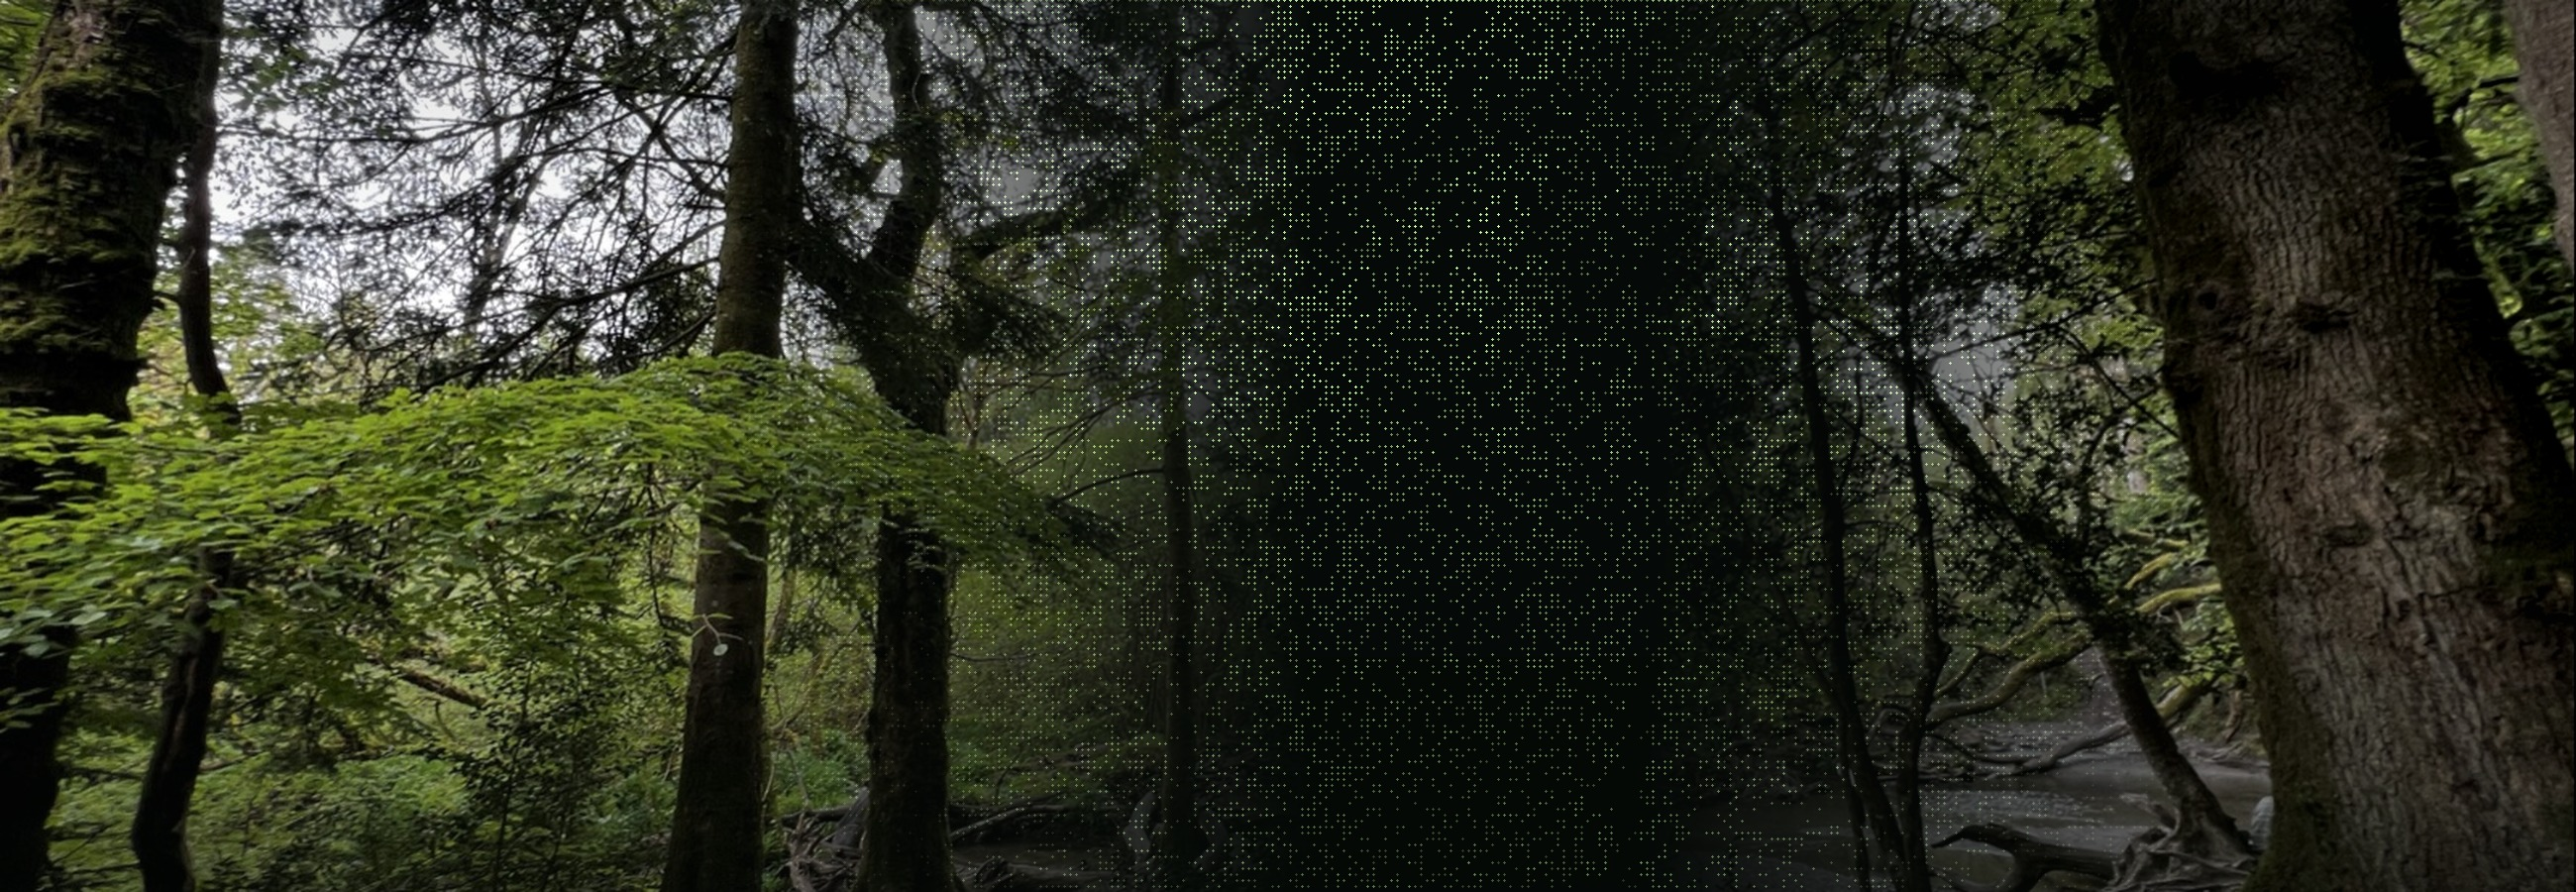
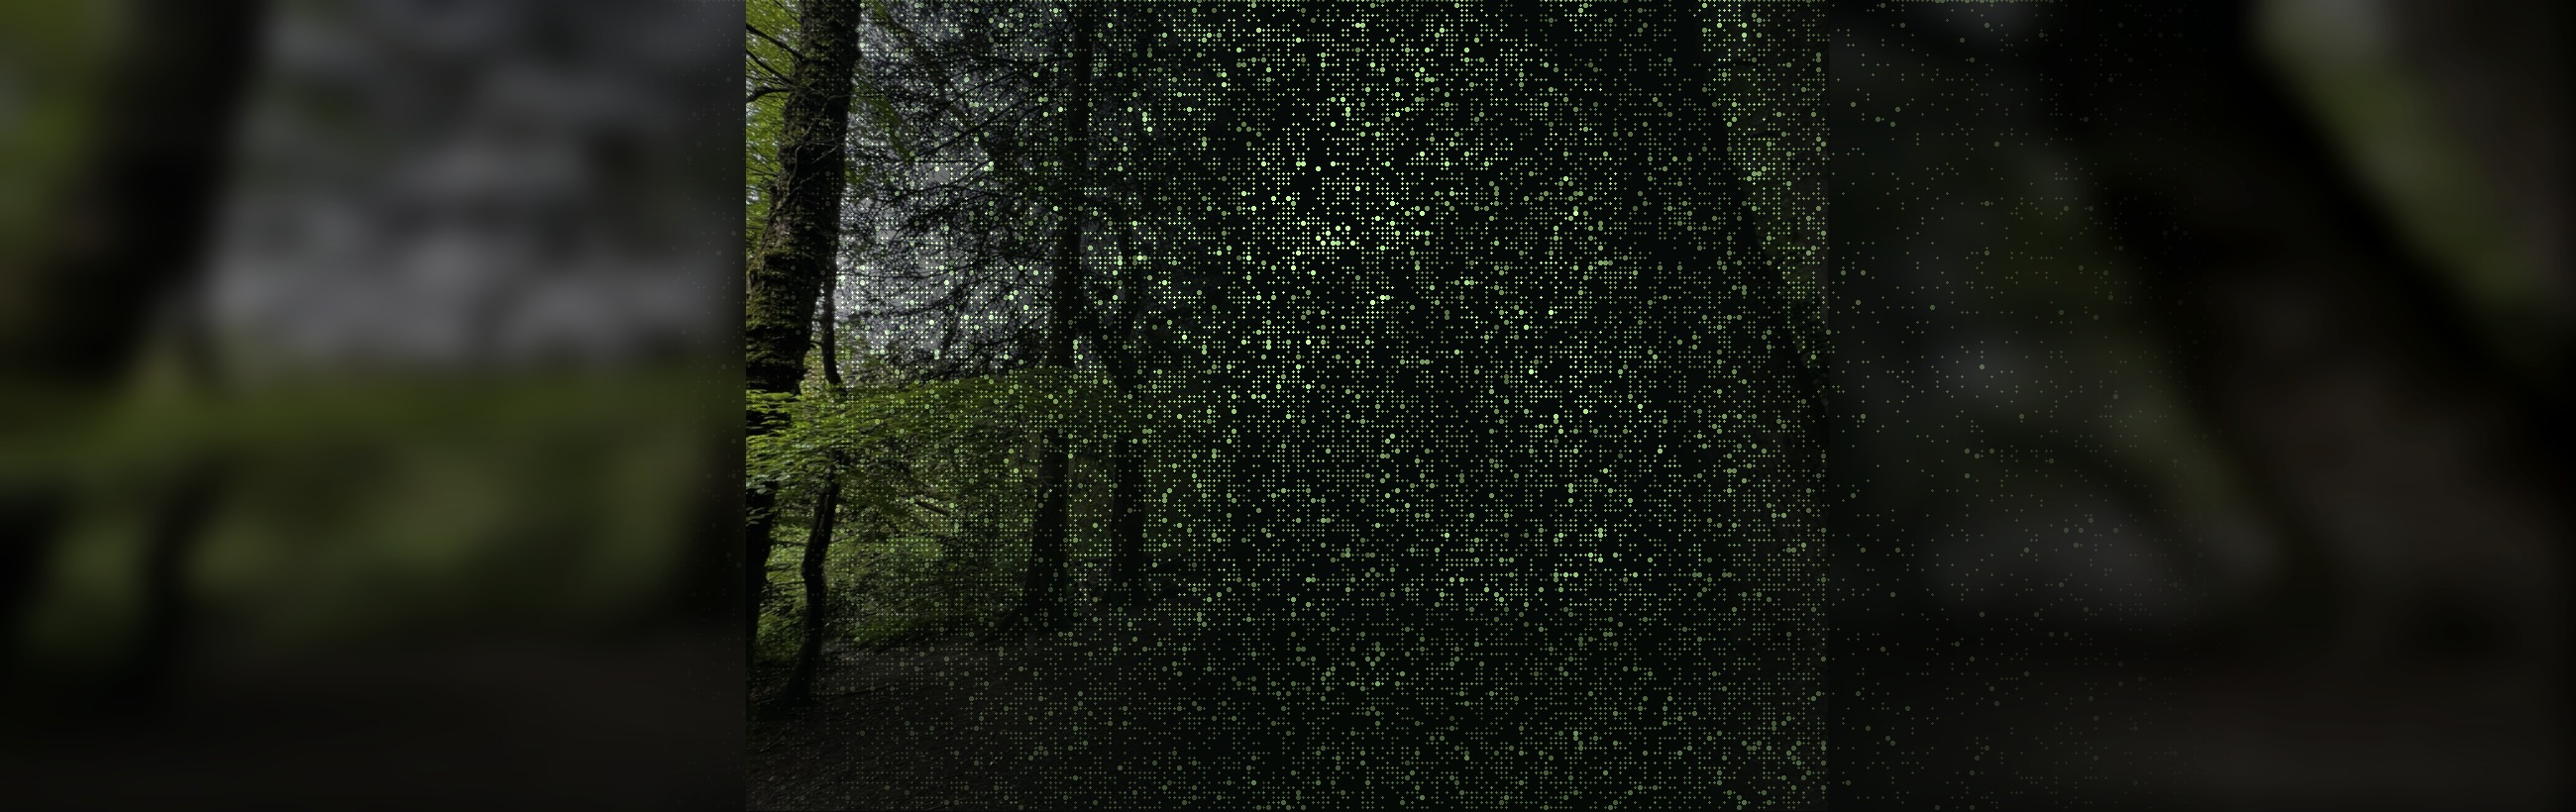
Add files via upload

diff --git a/index.html b/index.html
@@ -86,17 +86,6 @@
       </div>
     </section>
 
-    <section class="feature-film">
-      <a href="https://youtu.be/e0rO3VePtNk" target="_blank" rel="noopener">
-        <img src="https://i.ytimg.com/vi/e0rO3VePtNk/maxresdefault.jpg" alt="Still from Chryptochrome">
-      </a>
-      <div class="feature-caption">
-        <p class="kicker">Chryptochrome</p>
-        <p>2024 · LiDAR / iPhone film</p>
-        <a href="https://youtu.be/e0rO3VePtNk" target="_blank" rel="noopener">Watch film</a>
-      </div>
-    </section>
-
     <section class="research" id="research">
       <article>
         <p class="kicker">Research</p>
@@ -119,6 +108,19 @@
         <p class="kicker">Minority-language Media</p>
         <p>Welsh-language documentary, linguistic identity and minority-language screen cultures.</p>
         <a href="https://brill.com/view/journals/vjep/10/1/article-p1_1.xml?language=en&srsltid=AfmBOopHk2eEmS4YXgIFr_fXDFF81pDqo2QLfbyvxjWStXB5Ts-qAx4j" target="_blank" rel="noopener">Recent publication</a>
+      </article>
+
+      <article>
+        <p class="kicker">Writing</p>
+        <p>Books, journal articles and chapters across documentary, virtual production, media history and minority-language media.</p>
+        <a href="#writing">View publications</a>
+      </article>
+
+      <article>
+        <p class="kicker">Centres, Journals & Editorial Work</p>
+        <a href="https://vcdrc.aut.ac.nz" target="_blank" rel="noopener">AUT Virtual Creative Design Research Centre <small>vcdrc.aut.ac.nz</small></a>
+        <a href="https://ijcmr.online" target="_blank" rel="noopener">International Journal of Creative Media Research <small>ijcmr.online</small></a>
+        <a href="https://www.peterlang.com/series/dfc" target="_blank" rel="noopener">Documentary Film Cultures (Peter Lang) <small>peterlang.com/series/dfc</small></a>
       </article>
     </section>
 
@@ -161,27 +163,6 @@
           <li>Sills-Jones, D. (2012). History on UK TV: The rise of reconstruction. In <em>Docu-fictions</em>. UVK Verlag Konstanz.</li>
           </ol>
         </article>
-      </div>
-    </section>
-
-    <section class="centres">
-      <div class="section-title">
-        <p class="kicker">Centres, Journals & Editorial Work</p>
-        <h2>Research leadership and public work</h2>
-      </div>
-      <div class="centre-cards">
-        <a href="https://vcdrc.aut.ac.nz" target="_blank" rel="noopener">
-          <strong>AUT Virtual Creative Design Research Centre</strong>
-          <span>vcdrc.aut.ac.nz</span>
-        </a>
-        <a href="https://ijcmr.online" target="_blank" rel="noopener">
-          <strong>International Journal of Creative Media Research</strong>
-          <span>ijcmr.online</span>
-        </a>
-        <a href="https://www.peterlang.com/series/dfc" target="_blank" rel="noopener">
-          <strong>Documentary Film Cultures</strong>
-          <span>Peter Lang · peterlang.com/series/dfc</span>
-        </a>
       </div>
     </section>
 

diff --git a/styles.css b/styles.css
@@ -16,7 +16,7 @@ nav a:hover{color:var(--moss)}
 h1{margin:0;font-size:clamp(2.5rem,5vw,4.7rem);line-height:1;font-weight:400;letter-spacing:-.04em}
 .role{margin:.65rem 0 1.2rem;color:var(--moss);font-family:system-ui,sans-serif;letter-spacing:.14em}
 .summary{max-width:760px;margin:0 auto;color:var(--muted);font-size:clamp(1rem,1.35vw,1.15rem)}
-.work,.feature-film,.research,.writing,.centres,.contact{width:min(1420px,calc(100% - 2rem));margin:0 auto;border-top:1px solid var(--line)}
+.work,.research,.writing,.contact{width:min(1420px,calc(100% - 2rem));margin:0 auto;border-top:1px solid var(--line)}
 .work{display:grid;grid-template-columns:120px 1fr;gap:2rem;padding:2.6rem 0}
 .work-label h2,.kicker{color:var(--moss);font-family:system-ui,sans-serif;text-transform:uppercase;letter-spacing:.2em;font-size:.85rem;font-weight:400;line-height:1.45;margin:0 0 1rem}
 .works-strip{display:grid;grid-template-columns:repeat(9,minmax(110px,1fr));gap:1rem}
@@ -25,16 +25,14 @@ h1{margin:0;font-size:clamp(2.5rem,5vw,4.7rem);line-height:1;font-weight:400;let
 .work-card:hover img{opacity:1;transform:translateY(-3px)}
 .work-title{display:block;margin-top:.62rem;font-size:.83rem;line-height:1.2}
 .work-meta{display:block;margin-top:.22rem;color:var(--moss);font-family:system-ui,sans-serif;font-size:.62rem;line-height:1.35}
-.feature-film{padding:3rem 0 3.8rem}
-.feature-film img{width:100%;max-height:72vh;object-fit:cover;display:block;filter:saturate(.88) contrast(1.04)}
-.feature-caption{display:flex;flex-wrap:wrap;gap:.9rem 1.6rem;align-items:baseline;margin-top:1rem;color:var(--muted)}
-.feature-caption p{margin:0}
-.feature-caption a,.research a{color:var(--moss);font-family:system-ui,sans-serif;font-size:.82rem}
-.research{display:grid;grid-template-columns:1.05fr 1fr 1fr 1fr;padding:2.8rem 0;gap:2rem}
-.research article{border-left:1px solid var(--line);padding-left:1.35rem}
+.research{display:grid;grid-template-columns:1fr 1fr 1fr 1fr .9fr 1.1fr;padding:2.8rem 0;gap:0}
+.research article{border-left:1px solid var(--line);padding:0 1.35rem;min-height:230px}
 .research article:first-child{border-left:0;padding-left:0}
-.research p:not(.kicker){color:var(--muted);font-size:.9rem;max-width:30ch}
-.writing,.centres{padding:3.5rem 0}
+.research p:not(.kicker){color:var(--muted);font-size:.86rem;max-width:30ch}
+.research a{display:block;color:var(--moss);font-family:system-ui,sans-serif;font-size:.78rem;margin-top:1rem}
+.research article:last-child a{color:var(--ink);text-decoration:none;border-bottom:1px solid var(--line);padding:.45rem 0;margin:0;font-size:.78rem;line-height:1.2}
+.research article:last-child small{display:block;color:var(--moss);font-size:.68rem;margin-top:.15rem}
+.writing{padding:3.5rem 0}
 .section-title{display:grid;grid-template-columns:220px 1fr;gap:2rem;margin-bottom:2rem}
 h2{margin:0;font-weight:400;line-height:1.06;letter-spacing:-.04em;font-size:clamp(2rem,4vw,4rem);max-width:16ch}
 .pub-columns{display:grid;grid-template-columns:1fr 1.25fr 1fr;gap:2rem}
@@ -43,14 +41,10 @@ h3{margin:0 0 1rem;font-size:1.12rem;font-weight:400}
 ol{margin:0;padding-left:1.1rem}
 li{margin-bottom:.85rem;color:var(--muted);font-size:.84rem}
 li em{color:var(--ink);font-style:italic}
-.centre-cards{display:grid;grid-template-columns:repeat(3,1fr);gap:1rem}
-.centre-cards a{min-height:150px;display:grid;align-content:space-between;padding:1.2rem;border:1px solid var(--line);background:var(--panel);text-decoration:none}
-.centre-cards a:hover{border-color:rgba(167,189,115,.45)}
-.centre-cards strong{font-weight:400;font-size:1.1rem;line-height:1.2}
-.centre-cards span{color:var(--moss);font-family:system-ui,sans-serif;font-size:.78rem}
 .contact{padding:3rem 0 5rem}
 .contact h2{margin:0 0 1rem;max-width:18ch}
 .contact p{color:var(--muted)}
 footer{width:min(1420px,calc(100% - 2rem));margin:0 auto;padding:1.5rem 0 3rem;border-top:1px solid var(--line);color:var(--muted);font-size:.82rem}
-@media(max-width:1050px){.work,.section-title,.pub-columns,.centre-cards,.research{grid-template-columns:1fr}.works-strip{grid-template-columns:repeat(3,1fr)}.research article{border-left:0;border-top:1px solid var(--line);padding:1rem 0 0}.research article:first-child{border-top:0}}
-@media(max-width:680px){.site-header{position:absolute;align-items:flex-start;flex-direction:column}nav{gap:.75rem}.hero{min-height:70vh}.works-strip{grid-template-columns:repeat(2,1fr)}}
+@media(max-width:1180px){.research{grid-template-columns:repeat(3,1fr)}.research article{border-left:0;border-top:1px solid var(--line);padding:1rem 0 0;min-height:0}.research article:first-child{border-top:0}}
+@media(max-width:1050px){.work,.section-title,.pub-columns{grid-template-columns:1fr}.works-strip{grid-template-columns:repeat(3,1fr)}}
+@media(max-width:680px){.site-header{position:absolute;align-items:flex-start;flex-direction:column}nav{gap:.75rem}.hero{min-height:70vh}.works-strip{grid-template-columns:repeat(2,1fr)}.research{grid-template-columns:1fr}}